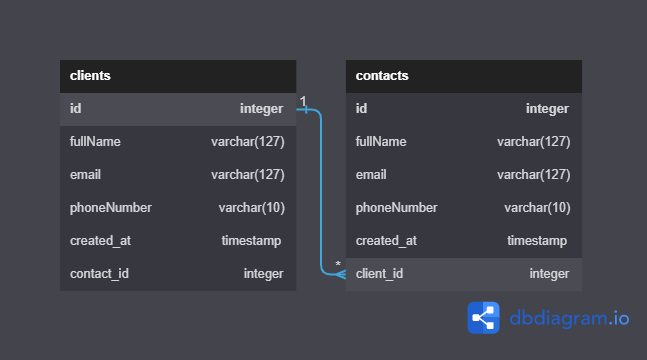
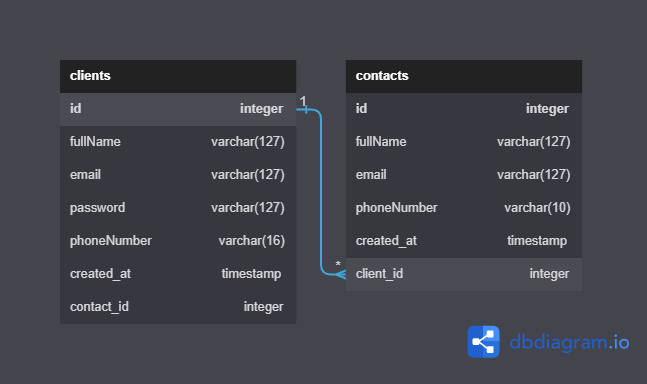
feat: Contact routes
Create Client Module and controller/service with contact routes and dto directory, implements contact CRUD routes, fix prisma client name and adds password field to client, install management libraries like bcryptjs, class validator and transformer, dotenv and others, change diagram

diff --git a/src/contact/contact.service.ts b/src/contact/contact.service.ts
@@ -1,0 +1,67 @@
+import { Injectable } from '@nestjs/common';
+import { PrismaService } from 'src/prisma.service';
+import { Contact, Prisma } from '@prisma/client';
+
+@Injectable()
+export class ContactService {
+  constructor(private prisma: PrismaService) {}
+
+  async contact(
+    contactWhereUniqueInput: Prisma.ContactWhereUniqueInput,
+  ): Promise<Contact> {
+    return this.prisma.contact.findUniqueOrThrow({
+      where: contactWhereUniqueInput,
+      include: {
+        client: true,
+      },
+    });
+  }
+
+  async contacts(params: {
+    skip?: number;
+    take?: number;
+    cursor?: Prisma.ContactWhereUniqueInput;
+    where?: Prisma.ContactWhereInput;
+    orderBy?: Prisma.ClientOrderByWithRelationInput;
+  }): Promise<Contact[]> {
+    const { skip, take, cursor, where, orderBy } = params;
+
+    return this.prisma.contact.findMany({
+      skip,
+      take,
+      cursor,
+      where,
+      orderBy,
+    });
+  }
+
+  async createContact(data: Prisma.ContactCreateInput): Promise<Contact> {
+    const contact = await this.prisma.contact.create({
+      data: {
+        ...data,
+      },
+      include: {
+        client: true,
+      },
+    });
+
+    return contact;
+  }
+
+  async updateContact(id: string, updateData: Prisma.ContactUpdateInput) {
+    return this.prisma.contact.update({
+      where: {
+        id,
+      },
+      data: updateData,
+    });
+  }
+
+  async deleteContact(id: string) {
+    return this.prisma.contact.delete({
+      where: {
+        id,
+      },
+    });
+  }
+}

diff --git a/src/contact/contact.controller.ts b/src/contact/contact.controller.ts
@@ -1,0 +1,43 @@
+import {
+  Body,
+  Controller,
+  Post,
+  Get,
+  Param,
+  Patch,
+  Delete,
+  HttpCode,
+} from '@nestjs/common';
+import { Contact } from '@prisma/client';
+import { CreateContactDto } from './dto/createContact.dto';
+import { ContactService } from './contact.service';
+import { UpdateContactDto } from './dto/updateContact.dto';
+
+@Controller('/contacts')
+export class ContactController {
+  constructor(private contactService: ContactService) {}
+
+  @Post('/')
+  async createContact(@Body() contactData: CreateContactDto) {
+    return this.contactService.createContact(contactData);
+  }
+
+  @Get('/:id')
+  async retrieveContact(@Param('id') id: string): Promise<Contact> {
+    return this.contactService.contact({ id: id });
+  }
+
+  @Patch('/:id')
+  async updateContact(
+    @Param('id') id: string,
+    @Body() updateContactData: UpdateContactDto,
+  ): Promise<Contact> {
+    return this.contactService.updateContact(id, updateContactData);
+  }
+
+  @Delete('/:id')
+  @HttpCode(204)
+  async deleteContact(@Param('id') id: string): Promise<Contact> {
+    return this.contactService.deleteContact(id);
+  }
+}

diff --git a/src/contact/contact.module.ts b/src/contact/contact.module.ts
@@ -1,0 +1,10 @@
+import { Module } from '@nestjs/common';
+import { PrismaService } from 'src/prisma.service';
+import { ContactController } from './contact.controller';
+import { ContactService } from './contact.service';
+
+@Module({
+  controllers: [ContactController],
+  providers: [ContactService, PrismaService],
+})
+export class ContactModule {}

diff --git a/src/contact/dto/createContact.dto.ts b/src/contact/dto/createContact.dto.ts
@@ -1,0 +1,9 @@
+import { Prisma } from '@prisma/client';
+
+export class CreateContactDto {
+  fullName: string;
+  email: string;
+  phoneNumber: string;
+  clientId: string;
+  client: Prisma.ClientCreateNestedOneWithoutContactsInput;
+}

diff --git a/src/contact/dto/updateContact.dto.ts b/src/contact/dto/updateContact.dto.ts
@@ -1,0 +1,5 @@
+export class UpdateContactDto {
+  fullName?: string;
+  email?: string;
+  phoneNumber?: string;
+}
